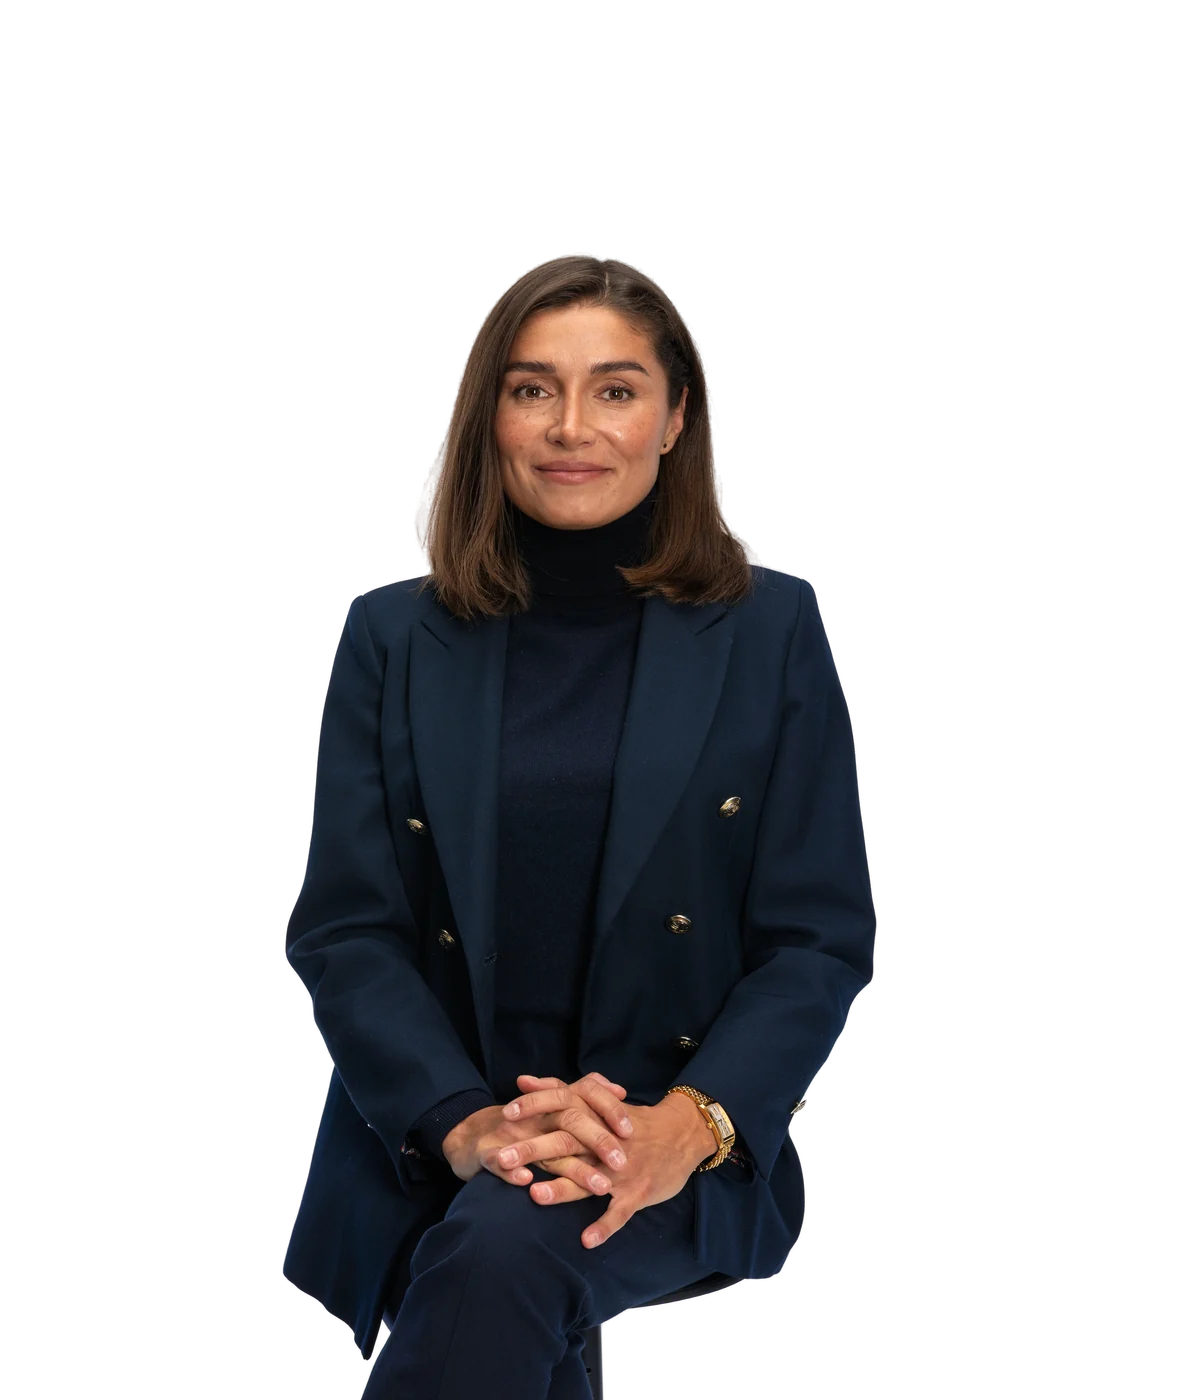
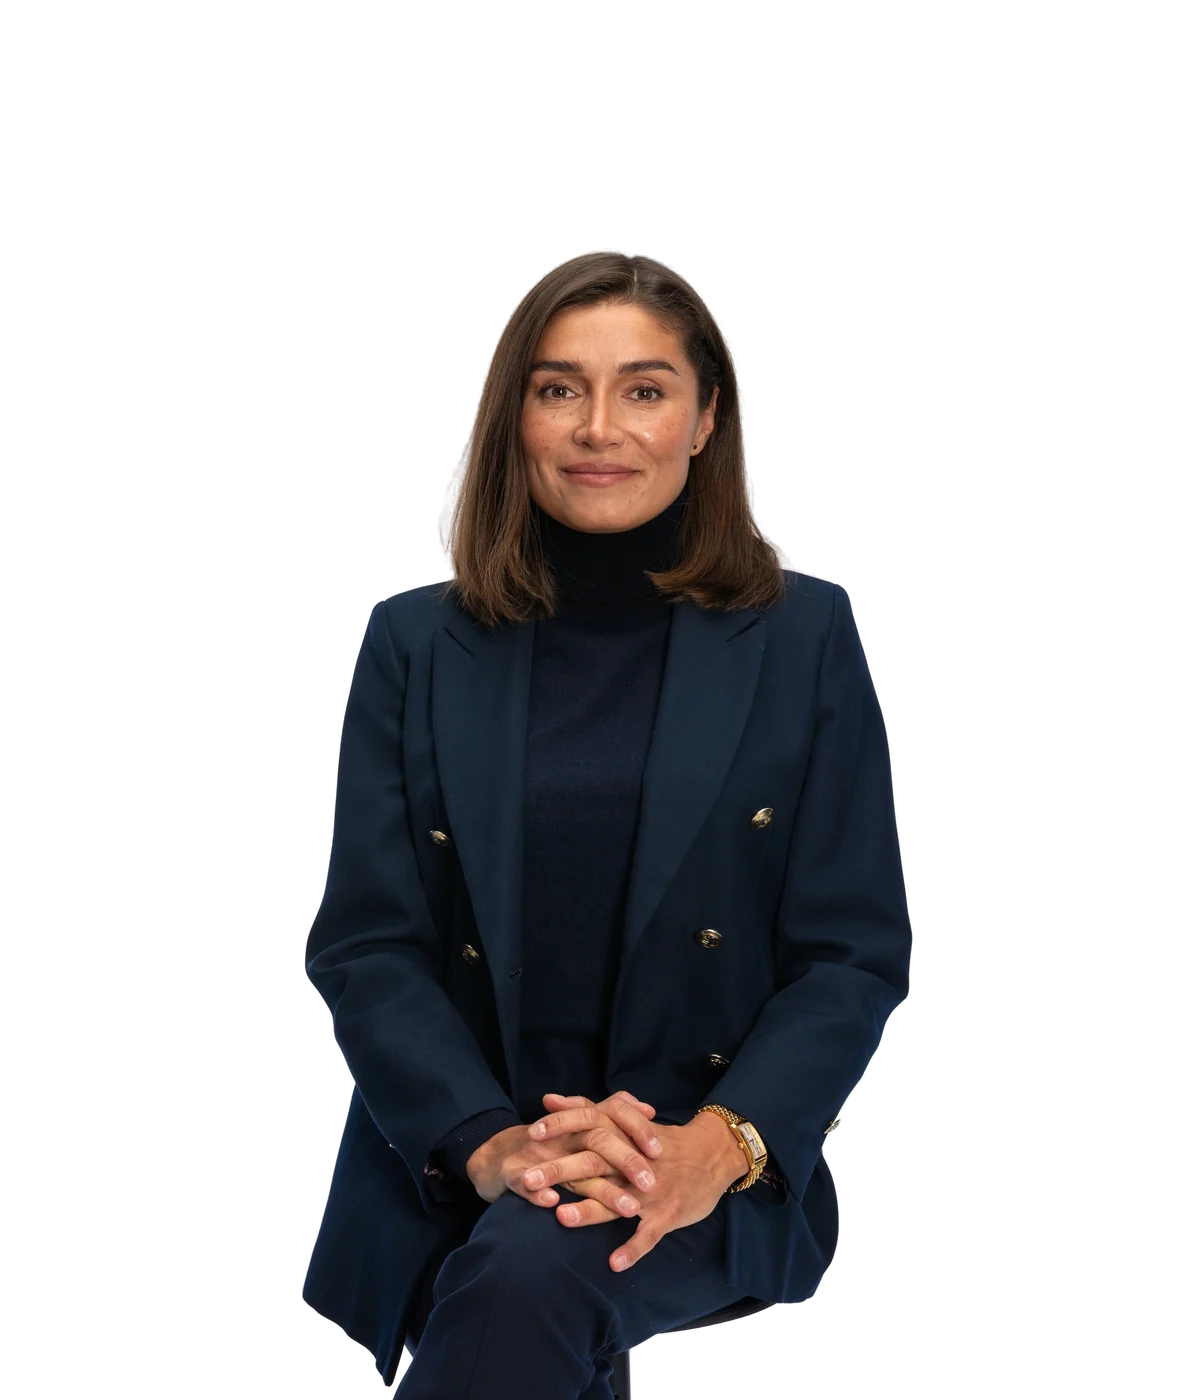
Team frame proposal: the whole team, not only Barbara
The other five chosen session shots (Jacek 10, Karolina 16, Justyna 06,
Wojciech 05, Anna 08) are cut out locally the same way and exported on
the same template, now normalised by face size so every head is the same
size on one eye line (Barbara re-exported to match). With ?portraits=a or
=b the proposal shows the whole team in the peak frames; Dominika keeps
the silhouette until her photos are shared. The plain page is unchanged.

Claude-Session: https://claude.ai/code/session_018U3DTCsgpei34pmikanfph

diff --git a/our-team.html b/our-team.html
@@ -182,7 +182,7 @@
                 </svg>
               </div>
               <div class="member__plate" aria-hidden="true">
-                <img class="member__portrait" src="portrait-silhouette.svg" alt="Jacek Balicki" loading="lazy" decoding="async" />
+                <img class="member__portrait" src="portrait-silhouette.svg" data-photo="team-jacek.webp" alt="Jacek Balicki" loading="lazy" decoding="async" />
               </div>
               <span class="member__index" aria-hidden="true">02</span>
             </div>
@@ -224,7 +224,7 @@
                 </svg>
               </div>
               <div class="member__plate" aria-hidden="true">
-                <img class="member__portrait" src="portrait-silhouette.svg" alt="Karolina Bressa" loading="lazy" decoding="async" />
+                <img class="member__portrait" src="portrait-silhouette.svg" data-photo="team-karolina.webp" alt="Karolina Bressa" loading="lazy" decoding="async" />
               </div>
               <span class="member__index" aria-hidden="true">03</span>
             </div>
@@ -267,7 +267,7 @@
                 </svg>
               </div>
               <div class="member__plate" aria-hidden="true">
-                <img class="member__portrait" src="portrait-silhouette.svg" alt="Justyna Szuprowska" loading="lazy" decoding="async" />
+                <img class="member__portrait" src="portrait-silhouette.svg" data-photo="team-justyna.webp" alt="Justyna Szuprowska" loading="lazy" decoding="async" />
               </div>
               <span class="member__index" aria-hidden="true">04</span>
             </div>
@@ -351,7 +351,7 @@
                 </svg>
               </div>
               <div class="member__plate" aria-hidden="true">
-                <img class="member__portrait" src="portrait-silhouette.svg" alt="Wojciech Młodawski" loading="lazy" decoding="async" />
+                <img class="member__portrait" src="portrait-silhouette.svg" data-photo="team-wojciech.webp" alt="Wojciech Młodawski" loading="lazy" decoding="async" />
               </div>
               <span class="member__index" aria-hidden="true">06</span>
             </div>
@@ -392,7 +392,7 @@
                 </svg>
               </div>
               <div class="member__plate" aria-hidden="true">
-                <img class="member__portrait" src="portrait-silhouette.svg" alt="Anna Zięba" loading="lazy" decoding="async" />
+                <img class="member__portrait" src="portrait-silhouette.svg" data-photo="team-anna.webp" alt="Anna Zięba" loading="lazy" decoding="async" />
               </div>
               <span class="member__index" aria-hidden="true">07</span>
             </div>
